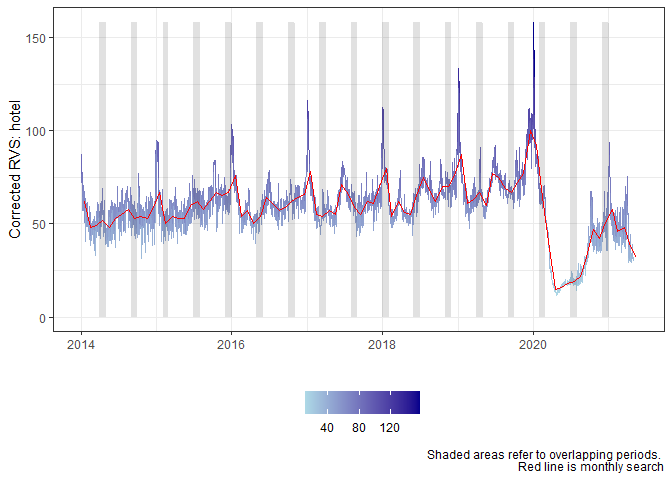
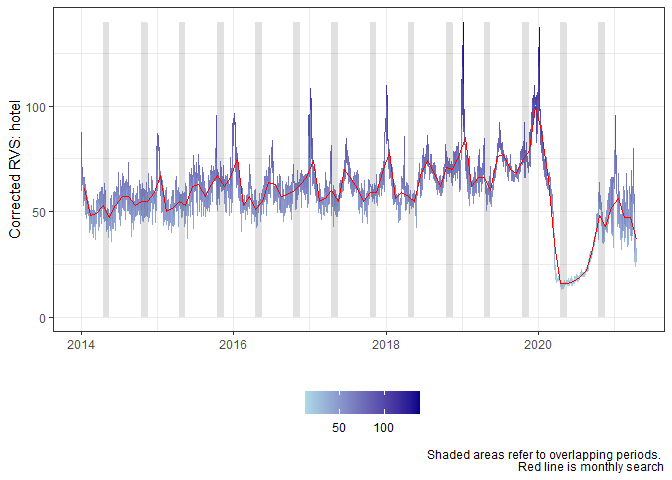
Second package release

diff --git a/README.md b/README.md
@@ -44,7 +44,7 @@ res <- long_gt(keyword = "hotel",geo="CO",
                  input.sdate = as.Date("2014-01-01"),
                  input.edate = as.Date("2021-04-16"),
                  input.frequency = "d",input.delta = 6,
-                 input.ol.win = 1,input.type="web",input.categ=0)
+                 input.ol.win = 1)
 #> [1] "GT sample = 1/15"
 #> [1] "GT sample = 2/15"
 #> [1] "GT sample = 3/15"
@@ -75,28 +75,25 @@ library(ninTrenDo)
 ## basic example code
 res <- long_gt_ltc(keyword = "hotel",geo="CO",
                  input.sdate = as.Date("2014-01-01"),
-                 input.edate = as.Date("2021-05-01"),
+                 input.edate = as.Date("2021-04-16"),
                  input.frequency = "d",td.method="chow-lin",
-                 input.delta = 5,
+                 input.delta = 6,
                  input.ol.win = 1)
-#> [1] "GT sample = 1/18"
-#> [1] "GT sample = 2/18"
-#> [1] "GT sample = 3/18"
-#> [1] "GT sample = 4/18"
-#> [1] "GT sample = 5/18"
-#> [1] "GT sample = 6/18"
-#> [1] "GT sample = 7/18"
-#> [1] "GT sample = 8/18"
-#> [1] "GT sample = 9/18"
-#> [1] "GT sample = 10/18"
-#> [1] "GT sample = 11/18"
-#> [1] "GT sample = 12/18"
-#> [1] "GT sample = 13/18"
-#> [1] "GT sample = 14/18"
-#> [1] "GT sample = 15/18"
-#> [1] "GT sample = 16/18"
-#> [1] "GT sample = 17/18"
-#> [1] "GT sample = 18/18"
+#> [1] "GT sample = 1/15"
+#> [1] "GT sample = 2/15"
+#> [1] "GT sample = 3/15"
+#> [1] "GT sample = 4/15"
+#> [1] "GT sample = 5/15"
+#> [1] "GT sample = 6/15"
+#> [1] "GT sample = 7/15"
+#> [1] "GT sample = 8/15"
+#> [1] "GT sample = 9/15"
+#> [1] "GT sample = 10/15"
+#> [1] "GT sample = 11/15"
+#> [1] "GT sample = 12/15"
+#> [1] "GT sample = 13/15"
+#> [1] "GT sample = 14/15"
+#> [1] "GT sample = 15/15"
 #> [1] "Correction with monthly trend in process - Method: chow-lin"
 #> Loading required namespace: tsbox
 
